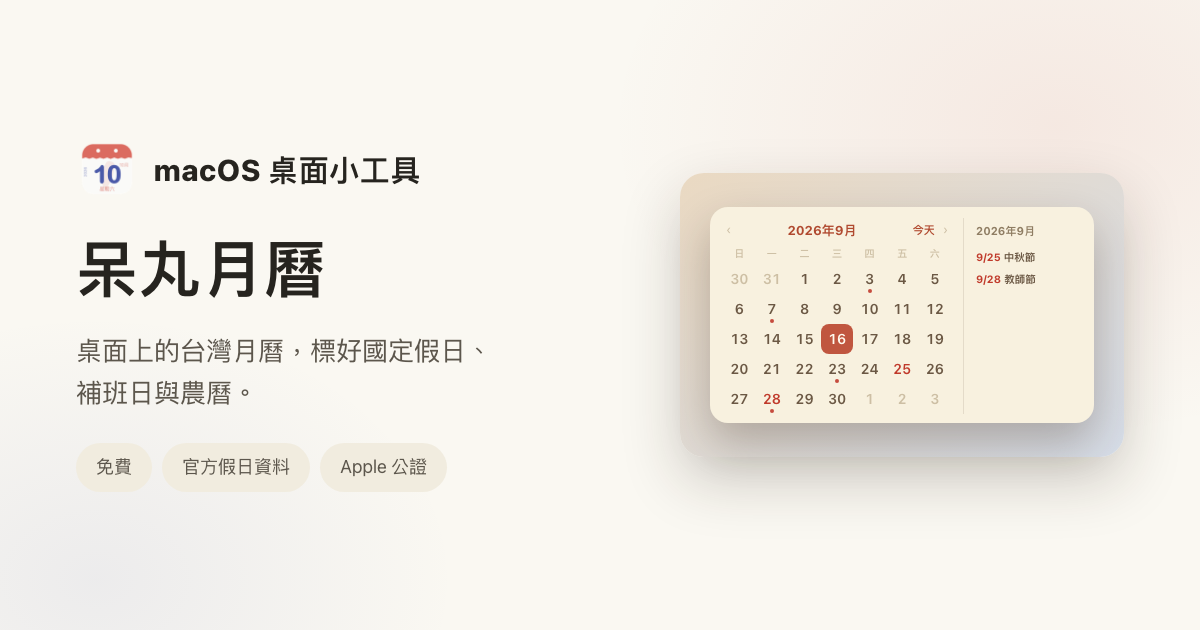
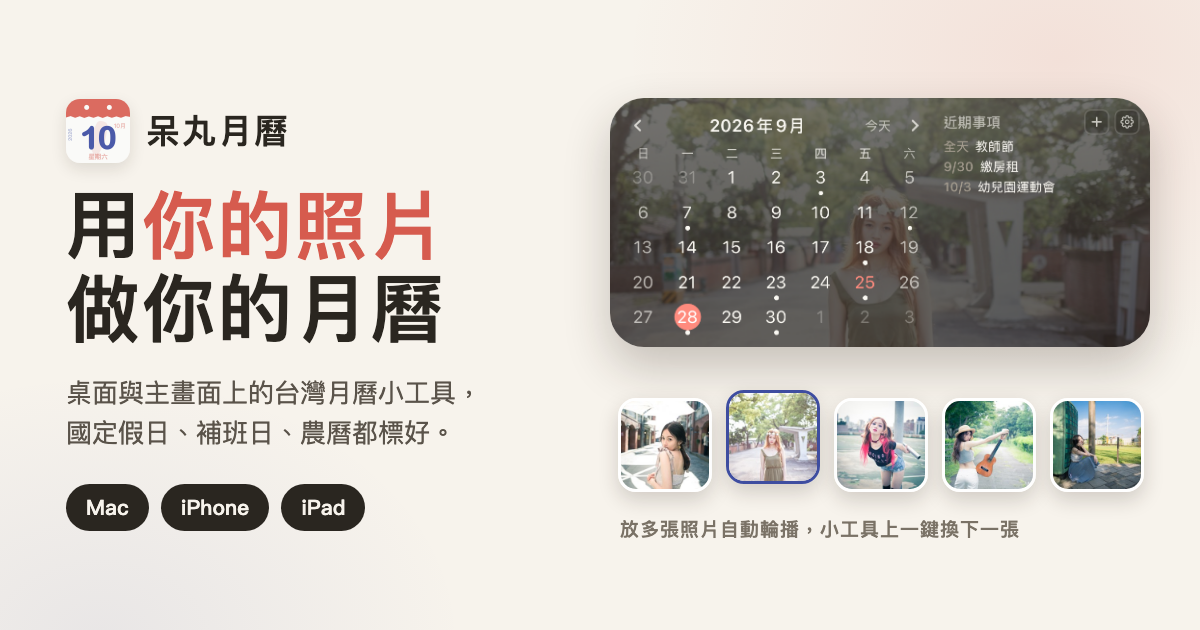
更新官網

diff --git a/index.html b/index.html
@@ -18,7 +18,7 @@
 <link rel="icon" type="image/png" sizes="96x96" href="assets/icon-96.png">
 <link rel="icon" type="image/png" sizes="48x48" href="assets/icon-48.png">
 <link rel="apple-touch-icon" href="assets/icon.png">
-<link rel="stylesheet" href="styles.css?v=1790618708">
+<link rel="stylesheet" href="styles.css?v=1790670418">
 
 <!-- Google Analytics 4 -->
 <script async src="https://www.googletagmanager.com/gtag/js?id=G-9WMRXBMDGN"></script>
@@ -57,7 +57,7 @@
 <meta property="og:image" content="https://taical.andyshiu.com/assets/og.png">
 <meta property="og:image:width" content="1200">
 <meta property="og:image:height" content="630">
-<meta property="og:image:alt" content="呆丸月曆的月曆小工具，月曆上標著中秋節與教師節">
+<meta property="og:image:alt" content="用你的照片做你的月曆：照片背景的月曆小工具，下方一排可輪播的照片">
 <meta name="twitter:card" content="summary_large_image">
 <meta name="twitter:title" content="呆丸月曆 — 用你的照片，做你的月曆">
 <meta name="twitter:description" content="Mac、iPhone、iPad 都能用的照片月曆小工具。放假、補班、農曆都標好。">
@@ -75,7 +75,7 @@
   "operatingSystem": "macOS 14.0 以上（Apple 晶片）、iOS 17 以上、iPadOS 17 以上",
   "url": "https://taical.andyshiu.com/",
   "downloadUrl": "https://github.com/AndyShiu/TaiCal-releases/releases/latest/download/TaiCal.dmg",
-  "softwareVersion": "1.9",
+  "softwareVersion": "1.10",
   "inLanguage": "zh-Hant",
   "description": "Mac、iPhone、iPad 都能用的照片月曆小工具，標好台灣國定假日、補班日與農曆，並幫你算連假怎麼請最划算。假日資料取自行政院人事行政總處公告的辦公日曆表。",
   "image": "https://taical.andyshiu.com/assets/og.png",
@@ -369,6 +369,6 @@
   <div class="foot-note">假日資料來自行政院人事行政總處「政府行政機關辦公日曆表」，依政府資料開放授權條款第 1 版使用。本站使用 Google Analytics 統計瀏覽人次。</div>
 </footer>
 
-<script src="site.js?v=1790618708" defer></script>
+<script src="site.js?v=1790670418" defer></script>
 </body>
 </html>

diff --git a/privacy.html b/privacy.html
@@ -9,7 +9,7 @@
 <meta name="theme-color" content="#C24A3B">
 <link rel="icon" href="/favicon.ico" sizes="any">
 <link rel="apple-touch-icon" href="assets/icon.png">
-<link rel="stylesheet" href="styles.css?v=1790618708">
+<link rel="stylesheet" href="styles.css?v=1790670418">
 <script>
   /* 跟首頁同一個主題設定，從首頁點過來不會換色 */
   try {
